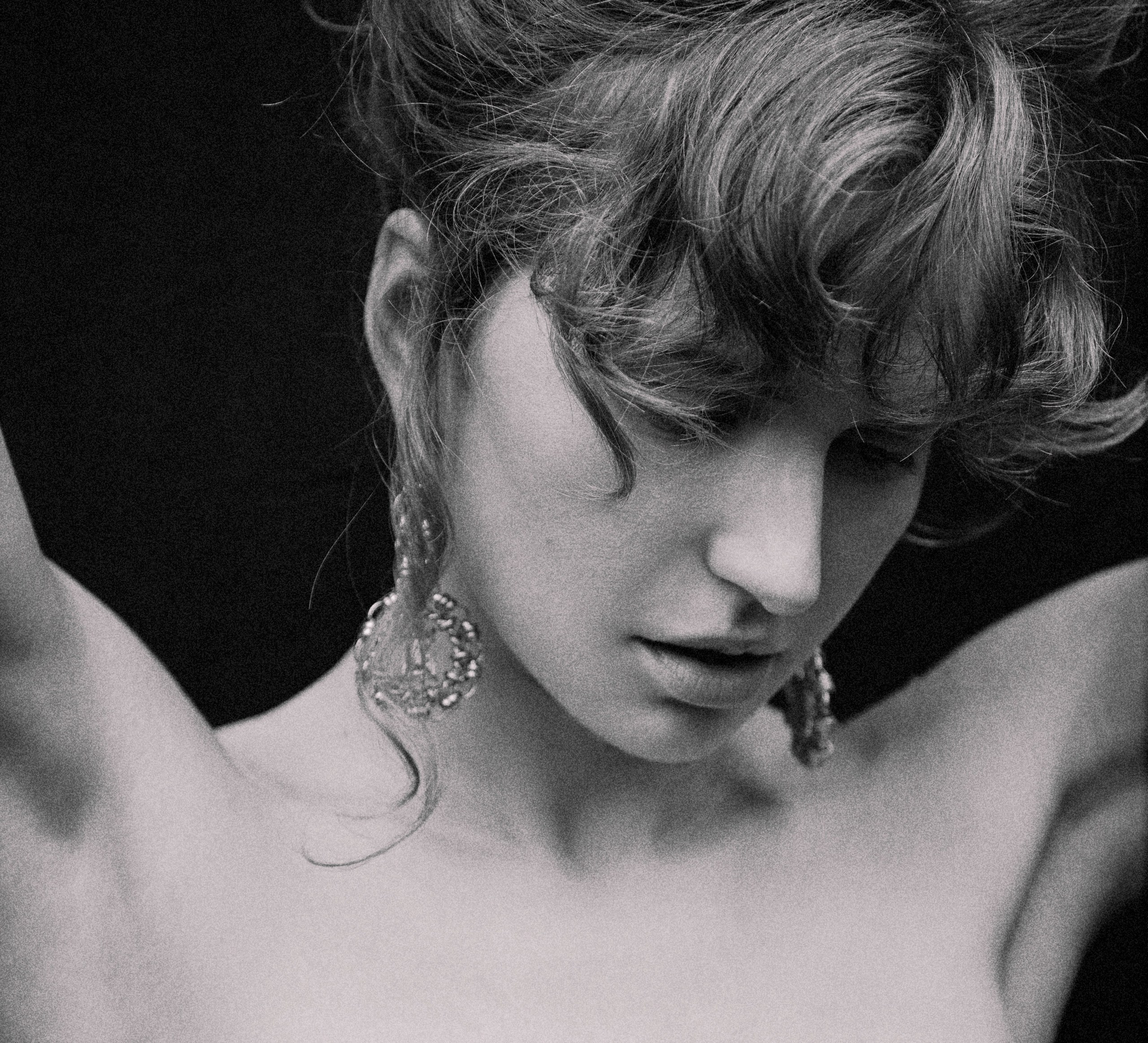
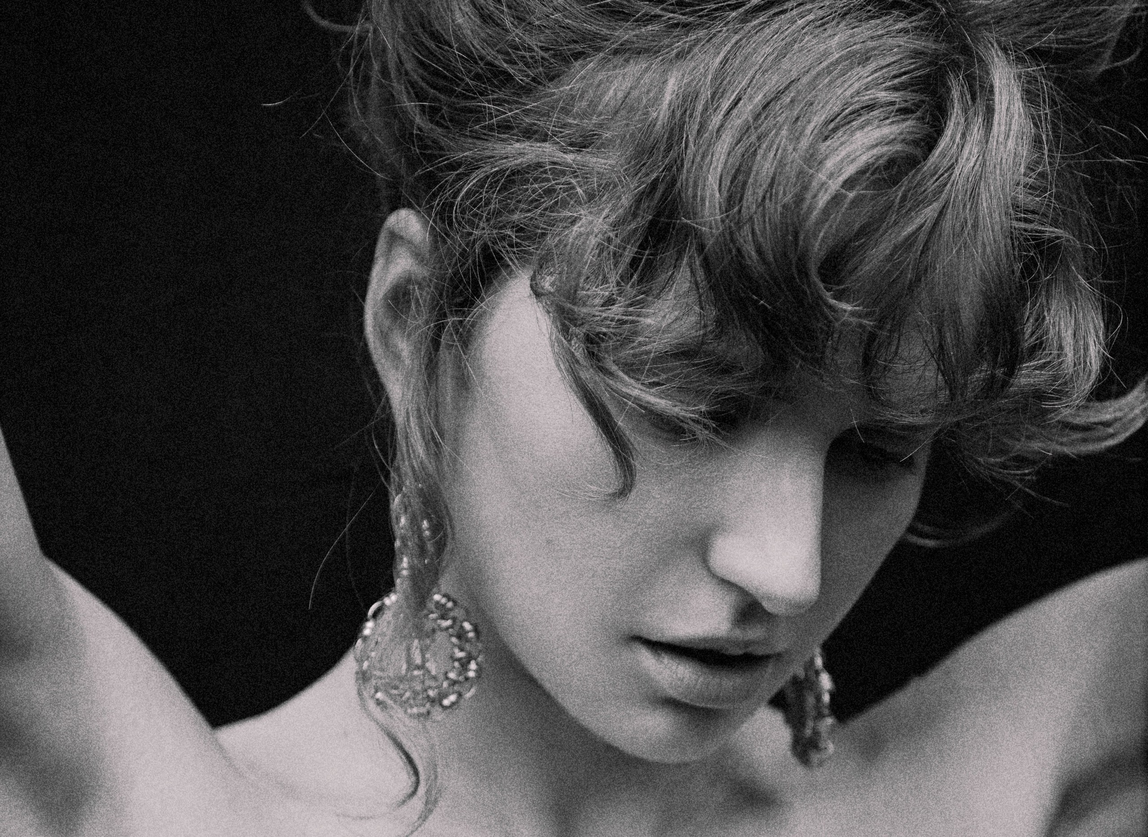
toggling with About and LandingImage components

diff --git a/src/components/Album/Album.jsx b/src/components/Album/Album.jsx
@@ -1,18 +1,45 @@
 import Container from 'react-bootstrap/Container';
 import Row from 'react-bootstrap/Row';
 import Col from 'react-bootstrap/Col';
+import Image  from "react-bootstrap/Image";
+import Angelica1 from "./Angelica 1 .jpeg";
+import Angelica2 from "./Angelica2.jpeg"; 
+import Angelica3 from "./Angelica3.jpeg"; 
+import Angelica4 from "./Angelica4.jpeg";
+import Angelica5 from "./Angelica5.jpeg";
+import Angelica6 from "./Angelica6.jpeg"; 
+import Angelica7 from "./Angelica7.jpeg"; 
+import Angelica8 from "./Angelica8.jpeg"; 
+import Angelica9 from "./Angelica9.jpeg"; 
+import Angelica10 from "./Angelica10.jpeg"; 
+import Angelica11 from "./Angelica11.jpeg"; 
+
 
 function Album(){
     return (
-        <Container>
+        <Container  className='albm-outer-section'>
         <Row>
-          <Col>1 of 2</Col>
-          <Col>2 of 2</Col>
+          <Col><Image className='vertical-photo' src={Angelica1}data-sizes="auto" fluid /></Col>
+          <Col><Image className='vertical-photo' src={Angelica2}data-sizes="auto" fluid /></Col>
         </Row>
         <Row>
-          <Col>1 of 3</Col>
-          <Col>2 of 3</Col>
-          <Col>3 of 3</Col>
+          <Col><Image className='vertical-photo' src={Angelica3}data-sizes="auto" fluid /></Col>
+          <Col><Image className='vertical-photo' src={Angelica4}data-sizes="auto" fluid /></Col>
+        </Row>
+        <Row>
+         <Col ><Image className='horizontal-photo' src={Angelica5}data-sizes="auto" fluid /></Col>
+        </Row>
+        <Row>
+         <Col><Image className='vertical-photo' src={Angelica6}data-sizes="auto" fluid /></Col>
+         <Col><Image className='vertical-photo' src={Angelica7}data-sizes="auto" fluid /></Col>
+        </Row>
+        <Row>
+         <Col><Image className='vertical-photo' src={Angelica8}data-sizes="auto" fluid /></Col>
+         <Col><Image className='vertical-photo' src={Angelica9}data-sizes="auto" fluid /></Col>
+        </Row>
+        <Row>
+         <Col><Image className='vertical-photo'  src={Angelica10}data-sizes="auto" fluid /></Col>
+         <Col><Image className='vertical-photo' src={Angelica11}data-sizes="auto" fluid /></Col>
         </Row>
       </Container>
     )

diff --git a/public/styles.css b/public/styles.css
@@ -1,40 +1,87 @@
+
 * {
-    padding: 0px 20px 0px 20px;
+    /* padding: 0px 20px 0px 20px; */
     margin: 0;
     box-sizing: border-box;
   }
 
-img {
-    display: block;
-    margin-left: auto;
-    margin-right: auto;
-    width: 80%;
-  }
+.navbar-header{
+    background-color: rgba(0, 0, 0, 0); 
+}
+
 
 body{
-    padding: 0px 25px 0px 25px;
+    letter-spacing: .05em;
 }
+
+/* .img-fluid {
+    max-width: 100%;
+    height: auto;
+   
+} */
 
 div{
     margin: auto;
     text-align: center;
 }
 
-.inner-section{
-    padding: 50px 100px 50px 100px; 
+
+
+.albm-outer-section{
+    align-items: center;
+    justify-content: center;
 }
 
-h1, h2{
-    font-family: 'Forum', serif;
+.inner-section{
+    padding: 80px 0px 80px 0px; 
+    width: 1320px; 
+ 
 }
+
+.abt-outer-section{
+    background-color: #F7F7F9;
+}
+
+
+
+.p-2{
+    width: 500px;
+    text-align: center;
+}
+
+.abt-header{
+    font-family: 'Forum', serif;
+    font-size: 29px;
+    color: #2d2d2d;
+
+}
+
+.abt-name{
+    font-family: 'Forum', serif;
+    font-size: 40px;
+    color: #2d2d2d;
+
+}
+
 
 p {
     font-family: 'Ubuntu', serif;
+    font-size: 14px;
+    text-align: center;
 }
 
 .col-1{
     padding: 50px 100px 50px 100px; 
 }
 
+.vertical-photo{
+    height: 515px;
+    width: 643px; 
+    padding: 20px 20px 20px 20px; 
+}
 
-
+.horizontal-photo{
+    height: 765px ;
+    width: 1250px ;
+    padding: 20px 20px 20px 20px; 
+}

diff --git a/src/components/Header/Header.jsx b/src/components/Header/Header.jsx
@@ -6,9 +6,8 @@ import NavDropdown from 'react-bootstrap/NavDropdown';
 
 function Header(){
     return (
-    
-        <Navbar expand="lg" className="bg-body-tertiary">
-          <Container className='navbar-header'>
+      <Navbar expand="lg" className="navbar-header">
+          <Container className='navbar-header-inner'>
             <Navbar.Brand href="#home">React-Bootstrap</Navbar.Brand>
             <Navbar.Toggle aria-controls="basic-navbar-nav" />
             <Navbar.Collapse id="basic-navbar-nav">
@@ -32,7 +31,7 @@ function Header(){
             </Navbar.Collapse>
           </Container>
         </Navbar>
-
+  
       );
    
     

diff --git a/src/components/About/About.jsx b/src/components/About/About.jsx
@@ -3,10 +3,10 @@ import Stack from 'react-bootstrap/Stack';
 
 function About(){
     return (
-        <Stack gap={3}>
+        <Stack gap={3} className='abt-outer-section'>
         <div className='inner-section'>
-          <div className="p-2"><h1>Photographer</h1></div>
-          <div className="p-2"><h2>Angelika Kambur</h2></div>
+          <div className="p-2 abt-header"><h1>Photographer</h1></div>
+          <div className="p-2 abt-name"><h2>Angelika Kambur</h2></div>
           <div className="p-2">
           <p>
           Hi everyone! My name is Angelika and Im a photographer. 

diff --git a/src/components/App.jsx b/src/components/App.jsx
@@ -2,6 +2,7 @@ import Header from "../components/Header/Header"
 import Landingimage from "./Landingimage/LandingImage";
 import About from "./About/About";
 import Gallery from "./Gallery/Gallery";
+import Album from "./Album/Album";
 
 
 function App() {
@@ -11,6 +12,7 @@ function App() {
       <Landingimage />
       <About />
       <Gallery />
+      <Album />
     </div>
   );
 }

diff --git a/src/components/Landingimage/LandingImage.jsx b/src/components/Landingimage/LandingImage.jsx
@@ -2,7 +2,7 @@ import  Image  from "react-bootstrap/Image";
 import Landingimg from "./landingImage.jpg"
 
 function Landingimage(){
-    return <Image src={Landingimg} data-sizes="auto" fluid />
+    return <Image className="landing" src={Landingimg} data-sizes="auto" fluid />
 };
 
 export default Landingimage; 
